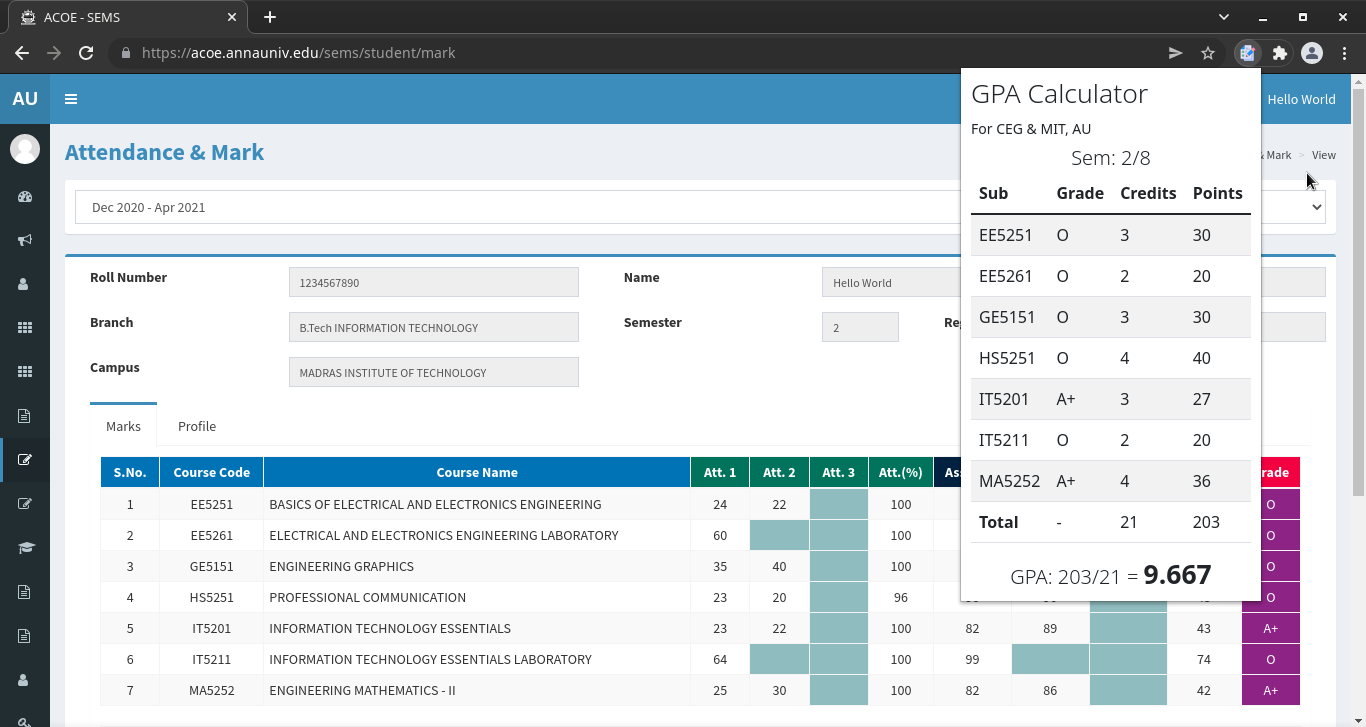
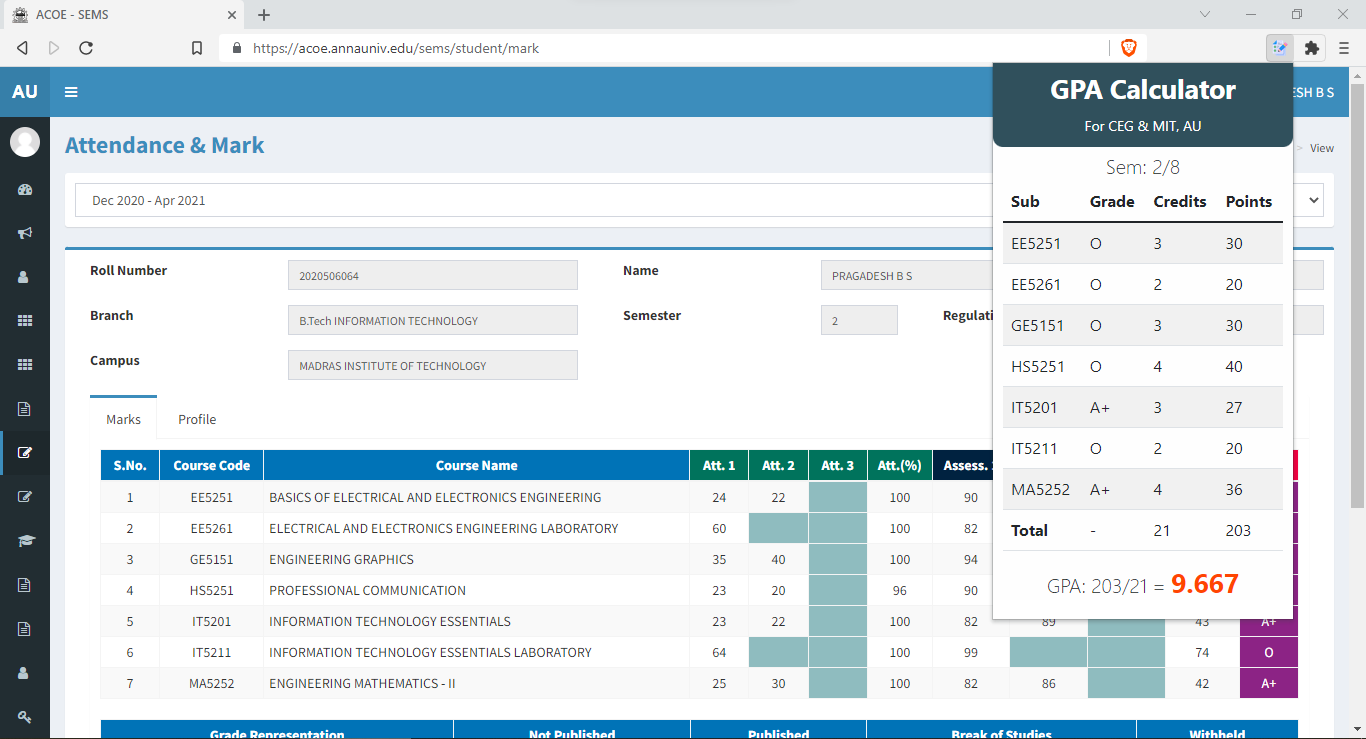
beautify popup

diff --git a/popup/index.html b/popup/index.html
@@ -8,29 +8,34 @@
   </head>
 
   <body>
-    <h1 class="display-6">GPA Calculator</h1>
-    <div class="small">For CEG & MIT, AU</div>
-    <div id="popup-content">
-      <div id="data-success" class="hidden">
-        <div class="mt-1 lead text-center">Sem: <span id="sem"></span>/8</div>
-        <table class="table table-striped">
-          <thead>
-            <tr>
-              <th scope="col">Sub</th>
-              <th scope="col">Grade</th>
-              <th scope="col">Credits</th>
-              <th scope="col">Points</th>
-            </tr>
-          </thead>
-          <tbody id="gradesTable"></tbody>
-        </table>
-        <div class="lead text-center">
-          GPA: <span id="gpaCalc"></span
-          ><span id="gpa" class="fw-bold display-6"></span>
+    <div class="header text-center">
+      <h1 class="display-6 fw-bold">GPA Calculator</h1>
+      <small>For CEG & MIT, AU</small>
+    </div>
+    <div class="content">
+      <div id="popup-content">
+        <div id="data-success" class="hidden">
+          <div class="lead text-center pt-1">Sem: <span id="sem"></span>/8</div>
+          <table class="table table-striped">
+            <thead>
+              <tr>
+                <th scope="col">Sub</th>
+                <th scope="col">Grade</th>
+                <th scope="col">Credits</th>
+                <th scope="col">Points</th>
+              </tr>
+            </thead>
+            <tbody id="gradesTable"></tbody>
+          </table>
+          <div class="lead text-center">
+            GPA: <span id="gpaCalc"></span
+            ><span id="gpa" class="fw-bold display-6"></span>
+          </div>
         </div>
-      </div>
-      <div id="data-error" class="hidden mt-1">
-        Visit Attendance & Marks section in SEMS to calculate GPA 🐻
+        <div id="data-error">
+          To calculate GPA, visit
+          <b>Attendance & Marks</b> section in SEMS 🐻
+        </div>
       </div>
     </div>
     <script src="data.js"></script>

diff --git a/popup/styles.css b/popup/styles.css
@@ -1,8 +1,34 @@
+* {
+  margin: 0;
+  padding: 0;
+}
+
 body {
-  padding: 10px;
   width: 300px;
+  padding-bottom: 20px;
 }
 
 .hidden {
   display: none;
+}
+
+.content {
+  background-color: #fefefe;
+  padding: 0 10px;
+}
+
+#data-error {
+  padding: 10px;
+  text-align-last: center;
+}
+
+#gpa {
+  color: orangered;
+}
+
+.header {
+  background-color: #30505c;
+  padding: 10px 5px;
+  color: white;
+  border-radius: 0 0 10px 10px;
 }
